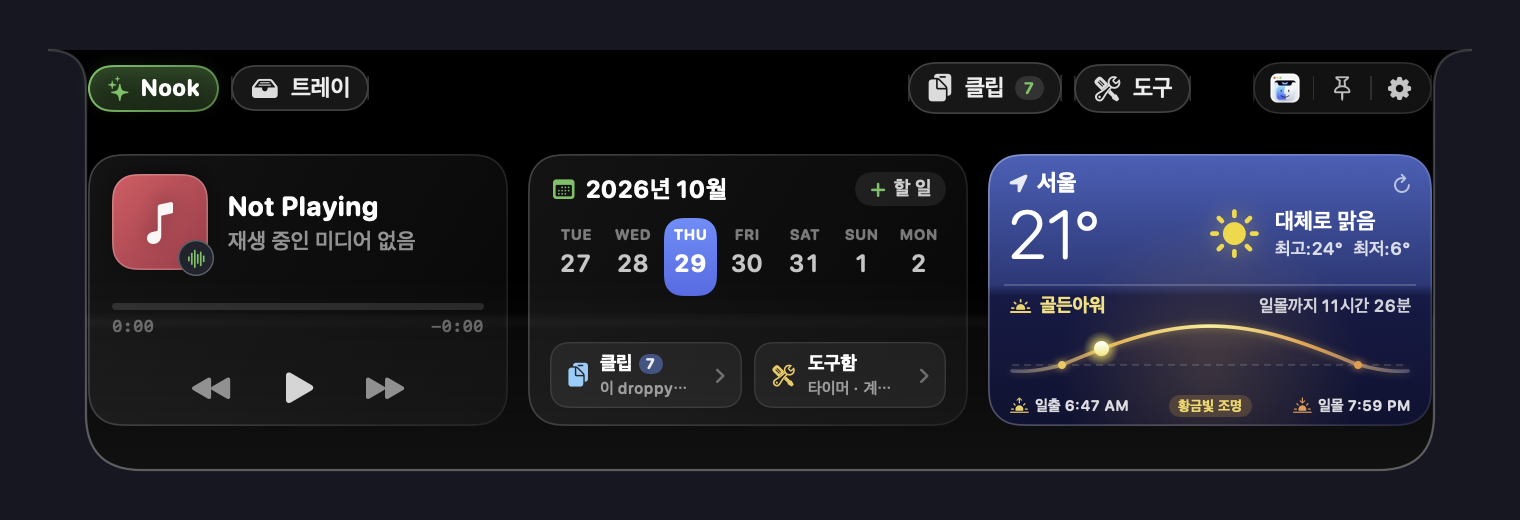
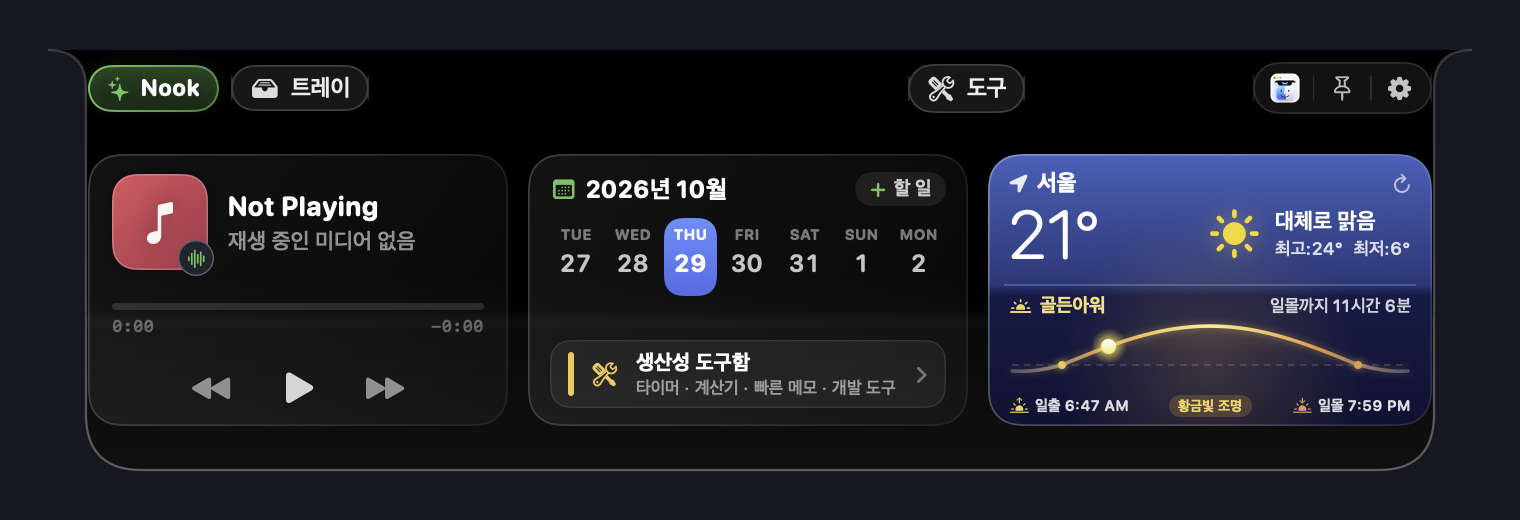
feat(ui): remove standalone Clips tab to eliminate overlap with Tools (Notchie-20261029-v14)

diff --git a/DynamicNotch/Features/QuickTools/QuickToolsView.swift b/DynamicNotch/Features/QuickTools/QuickToolsView.swift
@@ -327,20 +327,8 @@ struct NotchiePanoramicHubView: View {
             Color.clear
                 .frame(width: isNotchlessScreen ? 16 : 148)
 
-            // Right Wing: 2 Primary Tabs (Clips | Tools) + Unified Glass Utility Rail
-            HStack(spacing: 6) {
-                primaryWingTabButton(
-                    title: text("Clips", "클립"),
-                    systemImage: "doc.on.clipboard.fill",
-                    isSelected: store.hubMode == .clips || store.hubMode == .notes,
-                    badgeCount: ProductivityStorage.shared.document.snippets.count,
-                    badgeIsAlert: false
-                ) {
-                    if store.hubMode != .clips && store.hubMode != .notes {
-                        store.hubMode = .clips
-                    }
-                }
-
+            // Right Wing: Tools Tab + Unified Glass Utility Rail
+            HStack(spacing: 8) {
                 primaryWingTabButton(
                     title: text("Tools", "도구"),
                     systemImage: "wrench.and.screwdriver.fill",
@@ -351,7 +339,7 @@ struct NotchiePanoramicHubView: View {
                     store.hubMode = .tools
                 }
 
-                Spacer(minLength: 4)
+                Spacer(minLength: 6)
 
                 // Unified Apple Glass Utility Pill (Icon Theme · Pin · Settings)
                 HStack(spacing: 2) {
@@ -694,11 +682,6 @@ struct NotchiePanoramicHubView: View {
                 calendarViewModel: store.calendarViewModel,
                 selectedDayOffset: $selectedDayOffset,
                 accentColor: accentColor,
-                onSwitchToClips: {
-                    withAnimation(.spring(response: 0.28, dampingFraction: 0.84)) {
-                        store.hubMode = .clips
-                    }
-                },
                 onSwitchToTools: {
                     withAnimation(.spring(response: 0.28, dampingFraction: 0.84)) {
                         store.hubMode = .tools
@@ -1341,7 +1324,6 @@ private struct NotchieCalendarScheduleColumn: View {
     var calendarViewModel: CalendarViewModel?
     @Binding var selectedDayOffset: Int
     let accentColor: Color
-    let onSwitchToClips: () -> Void
     let onSwitchToTools: () -> Void
     let onSwitchToTasks: () -> Void
 
@@ -1616,92 +1598,45 @@ private struct NotchieCalendarScheduleColumn: View {
     }
 
     private var quickProductivityActionRow: some View {
-        HStack(spacing: 6) {
-            Button(action: onSwitchToClips) {
-                HStack(spacing: 5) {
-                    Image(systemName: "doc.on.clipboard.fill")
-                        .font(.system(size: 9.5, weight: .semibold))
-                        .foregroundStyle(Color(red: 0.38, green: 0.82, blue: 1.0))
-                    VStack(alignment: .leading, spacing: 1) {
-                        HStack(spacing: 3) {
-                            Text(text("Clips", "클립"))
-                                .font(.system(size: 9.5, weight: .bold, design: .rounded))
-                                .foregroundStyle(.white)
-                                .lineLimit(1)
-                            if productivityStorage.document.snippets.count > 0 {
-                                Text("\(productivityStorage.document.snippets.count)")
-                                    .font(.system(size: 7.5, weight: .bold, design: .rounded))
-                                    .foregroundStyle(.white.opacity(0.9))
-                                    .padding(.horizontal, 3.5)
-                                    .padding(.vertical, 0.5)
-                                    .background(Color.blue.opacity(0.45), in: Capsule())
-                            }
-                        }
-                        Text(latestSnippetPreview)
-                            .font(.system(size: 8, weight: .medium, design: .rounded))
-                            .foregroundStyle(.white.opacity(0.55))
-                            .lineLimit(1)
-                    }
-                    Spacer(minLength: 0)
-                    Image(systemName: "chevron.right")
-                        .font(.system(size: 8, weight: .bold))
-                        .foregroundStyle(.white.opacity(0.35))
-                }
-                .padding(.horizontal, 8)
-                .padding(.vertical, 5)
-                .frame(maxWidth: .infinity, alignment: .leading)
-                .background(
-                    RoundedRectangle(cornerRadius: 9, style: .continuous)
-                        .fill(Color.white.opacity(0.055))
-                        .overlay(
-                            RoundedRectangle(cornerRadius: 9, style: .continuous)
-                                .strokeBorder(Color.white.opacity(0.10), lineWidth: 0.7)
-                        )
-                )
-            }
-            .buttonStyle(.plain)
+        Button(action: onSwitchToTools) {
+            HStack(spacing: 8) {
+                RoundedRectangle(cornerRadius: 2)
+                    .fill(Color(red: 1.0, green: 0.78, blue: 0.32))
+                    .frame(width: 3, height: 22)
 
-            Button(action: onSwitchToTools) {
-                HStack(spacing: 5) {
-                    Image(systemName: "wrench.and.screwdriver.fill")
-                        .font(.system(size: 9.5, weight: .semibold))
-                        .foregroundStyle(Color(red: 1.0, green: 0.78, blue: 0.32))
-                    VStack(alignment: .leading, spacing: 1) {
-                        Text(text("Tools", "도구함"))
-                            .font(.system(size: 9.5, weight: .bold, design: .rounded))
-                            .foregroundStyle(.white)
-                            .lineLimit(1)
-                        Text(text("Timer · Calc", "타이머 · 계산기"))
-                            .font(.system(size: 8, weight: .medium, design: .rounded))
-                            .foregroundStyle(.white.opacity(0.55))
-                            .lineLimit(1)
-                    }
-                    Spacer(minLength: 0)
-                    Image(systemName: "chevron.right")
-                        .font(.system(size: 8, weight: .bold))
-                        .foregroundStyle(.white.opacity(0.35))
-                }
-                .padding(.horizontal, 8)
-                .padding(.vertical, 5)
-                .frame(maxWidth: .infinity, alignment: .leading)
-                .background(
-                    RoundedRectangle(cornerRadius: 9, style: .continuous)
-                        .fill(Color.white.opacity(0.055))
-                        .overlay(
-                            RoundedRectangle(cornerRadius: 9, style: .continuous)
-                                .strokeBorder(Color.white.opacity(0.10), lineWidth: 0.7)
-                        )
-                )
-            }
-            .buttonStyle(.plain)
-        }
-    }
+                Image(systemName: "wrench.and.screwdriver.fill")
+                    .font(.system(size: 10.5, weight: .semibold))
+                    .foregroundStyle(Color(red: 1.0, green: 0.78, blue: 0.32))
 
-    private var latestSnippetPreview: String {
-        if let text = productivityStorage.document.snippets.first?.text.trimmingCharacters(in: .whitespacesAndNewlines), !text.isEmpty {
-            return text.replacingOccurrences(of: "\n", with: " ")
+                VStack(alignment: .leading, spacing: 1) {
+                    Text(text("Quick Tools Hub", "생산성 도구함"))
+                        .font(.system(size: 10.5, weight: .bold, design: .rounded))
+                        .foregroundStyle(.white)
+                        .lineLimit(1)
+
+                    Text(text("Timer · Calculator · Quick Notes · Dev", "타이머 · 계산기 · 빠른 메모 · 개발 도구"))
+                        .font(.system(size: 8.5, weight: .medium, design: .rounded))
+                        .foregroundStyle(.white.opacity(0.55))
+                        .lineLimit(1)
+                }
+                .frame(maxWidth: .infinity, alignment: .leading)
+
+                Image(systemName: "chevron.right")
+                    .font(.system(size: 9, weight: .bold))
+                    .foregroundStyle(.white.opacity(0.38))
+            }
+            .padding(.horizontal, 9)
+            .padding(.vertical, 5)
+            .background(
+                RoundedRectangle(cornerRadius: 10, style: .continuous)
+                    .fill(Color.white.opacity(0.055))
+                    .overlay(
+                        RoundedRectangle(cornerRadius: 10, style: .continuous)
+                            .strokeBorder(Color.white.opacity(0.09), lineWidth: 0.7)
+                    )
+            )
         }
-        return text("No clips yet", "복사 기록 없음")
+        .buttonStyle(.plain)
     }
 
     private func eventTimeRangeText(for event: EKEvent) -> String {
@@ -2735,18 +2670,14 @@ struct QuickToolsCompactView: View {
 
             Spacer()
 
-            // Right Wing: Core Pillars (Clips & Tools)
+            // Right Wing: Tools & Focus Session
             HStack(spacing: 7) {
                 if store.focus.timer.isActive {
                     FocusCompactView(controller: store.focus)
                 }
 
-                Image(systemName: "doc.on.clipboard.fill")
-                    .font(.system(size: 10.5, weight: .semibold))
-                    .foregroundStyle((store.hubMode == .clips || store.hubMode == .notes) ? accentColor : .white.opacity(0.85))
-
                 Image(systemName: "wrench.and.screwdriver.fill")
-                    .font(.system(size: 10.5, weight: .semibold))
+                    .font(.system(size: 11, weight: .semibold))
                     .foregroundStyle(store.hubMode == .tools ? accentColor : .white.opacity(0.85))
             }
         }
